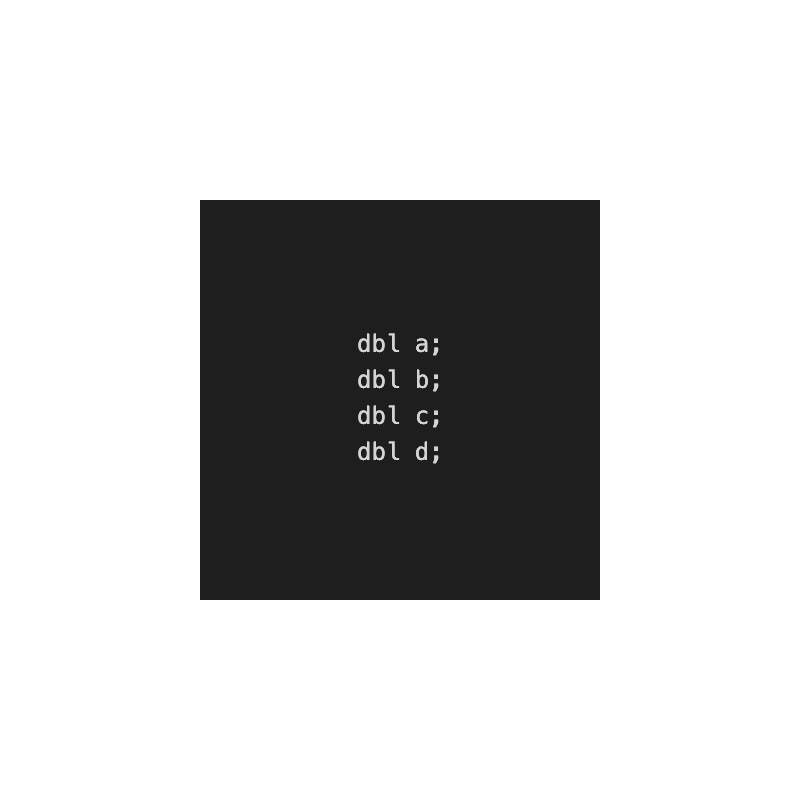
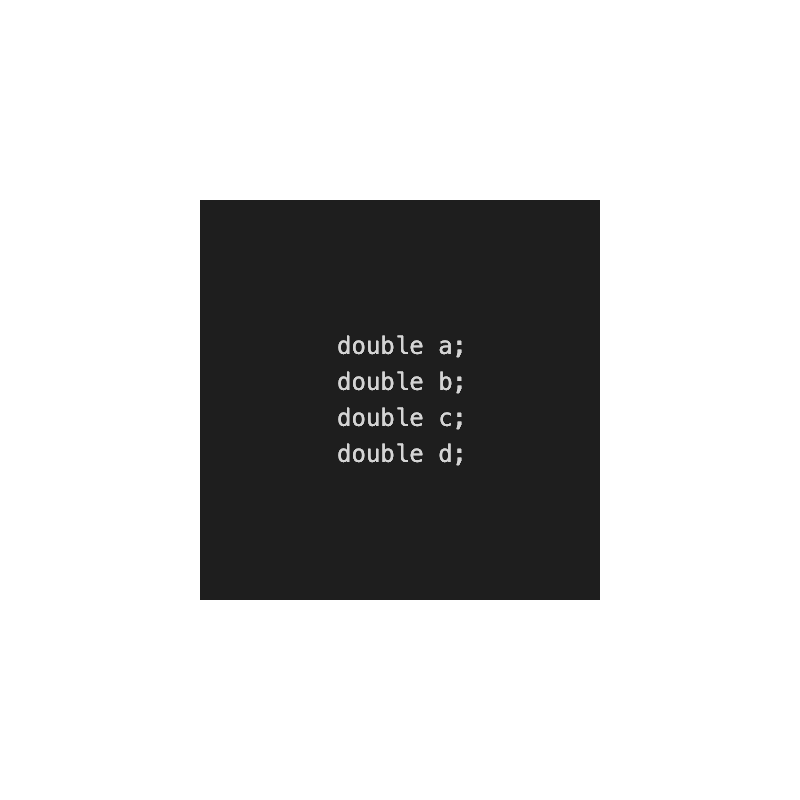
final touch-ups

Changed region(s): [[0.4062, 0.4062, 0.5938, 0.5938]]

diff --git a/secondPage.css b/secondPage.css
@@ -1,16 +1,16 @@
 body {
     background: rgb(2,0,36);
     background: radial-gradient(circle, rgba(2,0,36,1) 0%, rgba(255,255,255,1) 100%, rgba(0,212,255,1) 100%);
+    font-family: Helvetica, Arial, sans-serif;
     text-align: center;   
 }
 
 pre{
-    padding: 20px;
+    padding: 5px;
     margin-top: 5px;
-    background-color: orange;
-    text-align: justify;
-    color:black;
-    font-size: 20px;
+    background-color: rgba(212,212,212,0.2);
+    align-items: center;
+    color:#1e1e1e;
 }
 
 h1{
@@ -25,7 +25,7 @@ p {
     text-align: center;
     background-color: black;
     color:white;
-    padding: 10px;
+    padding: 5px;
     font-size: 20px;
 
 }
@@ -58,13 +58,12 @@ p {
 }
 
 button{
-    margin-top: 5px;
-    margin-bottom: 5px;    
+    margin-top: 0px;
+    margin-bottom: 15px;    
     background-color: green;
     padding-top: 5px;
     width: 100px; 
     cursor: pointer;
-
 }
 
 button:hover{

diff --git a/secondPage.html b/secondPage.html
@@ -3,7 +3,7 @@
     <link rel="stylesheet" href="secondPage.css">
 
 <head>
-<title> Second Page of Game</title>
+<title>Choose Level</title>
 <meta name="viewport" content="width=device-width, initial-scale=1">
 </head>
 <body>
@@ -16,22 +16,18 @@
       
 
 <h1>Welcome to the Main Screen. Pick your level choice down below.</h1>
-<br>
-<br>
-
-
 <div class="Main Content">
  
-<p> Each Prison has 4 Questions, with different level of difficuilty.
+<p>Each Prison has 4 Questions, with different level of difficuilty.
 <br>
 <br>
-The questions are in Java Code and cover the topics of Variables, Assingments, Branches & Conditions, Loops and Arrays. </p>
+The questions are in Java Code and cover the topics of Variables, Assingments, Branches & Conditions, Loops and Arrays.</p>
 
 
 </div>
 
 
-<h2> WHICH PRISON DO YOU WANT TO BEGIN WITH ? </h2>
+<h2>WHICH PRISON DO YOU WANT TO BEGIN WITH?</h2>
 
 
 

diff --git a/PrisonEscaped.css b/PrisonEscaped.css
@@ -2,7 +2,8 @@
 
 body {
     background: rgb(2,0,36);
-    background: radial-gradient(circle, rgba(2,0,36,1) 0%, rgba(255,255,255,1) 100%, rgba(0,212,255,1) 100%);    
+    background: radial-gradient(circle, rgba(2,0,36,1) 0%, rgba(255,255,255,1) 100%, rgba(0,212,255,1) 100%);
+    text-align: center;   
 }
 
 
@@ -25,9 +26,8 @@ button{
     padding-top: 5px;
     width: 150px; 
     cursor: pointer;
-    margin-left: 1170px;
-    margin-left: 700px;
     font-size: 20px;
+    align-items: center;
 }
 
 button:hover{
@@ -38,9 +38,8 @@ button:hover{
 }
 
 p{
-    margin-left: 570px;
    color:black;
    font-size: 25px;
-   margin-right: 500px;
+   text-align: center;
 
 }

diff --git a/questionTemplate.css b/questionTemplate.css
@@ -1,7 +1,8 @@
 
 body {
     background: rgb(2,0,36);
-    background: radial-gradient(circle, rgba(2,0,36,1) 0%, rgba(255,255,255,1) 100%, rgba(0,212,255,1) 100%);    
+    background: radial-gradient(circle, rgba(2,0,36,1) 0%, rgba(255,255,255,1) 100%, rgba(0,212,255,1) 100%);
+    text-align: center;  
 }
 
 
@@ -26,11 +27,10 @@ button{
     margin-top: 5px;
     margin-bottom: 5px;    
     background-color: green;
-    padding-top: 5px;
+    padding: 5px;
     width: 150px; 
     cursor: pointer;
-    margin-left: 680px;
-    margin-top: 20px;
+    align-items: center;
     font-size: 20px;
 }
 

diff --git a/Level3Question3.html b/Level3Question3.html
@@ -21,9 +21,9 @@
 
 <div class="Main Content">
  
-<p>Step 1: declare myNumber and assign it a value of 10.
-    Step 2: write a variable &#x27answer&#x27 that is the result of raising myNumber to the power of 3, adding 25 to it, then finding it&#x27s total remainder from 12.
-    Step 3: print &#x27answer&#x27.</p>
+<p>Step 1: declare myNumber and assign it a value of 10</p>
+<p>Step 2: write a variable 'answer' that is the result of raising myNumber to the power of 12, adding 25 to it, then finding it&#x27s total remainder from 12.</p>
+<p>Step 3: print 'answer'.</p>
 
 
 </div>

diff --git a/Level1Question3CORRECT.html b/Level1Question3CORRECT.html
@@ -23,9 +23,9 @@ Your browser does not support the audio element.
 
 <div class="Footer">
 <img src="Images/Correct Question.gif" alt="Next Level Unlocked" class="center">
-
-<a href="Level2Question1.html"><button>Level 2</button></a>
 <a href="secondPage.html"><button>Exit!</button></a>
+<a href="Level2Question1.html"><button>Level 2</button></a>
+
 
 </div>
 

diff --git a/Level2Question3CORRECT.html b/Level2Question3CORRECT.html
@@ -23,9 +23,9 @@ Your browser does not support the audio element.
 
 <div class="Footer">
 <img src="Images/Correct Question.gif" alt="Next Level Unlocked" class="center">
-
-<a href="Level3Question1.html"><button>Level 3</button></a>
 <a href="secondPage.html"><button>Exit!</button></a>
+<a href="Level3Question1.html"><button>Level 3</button></a>
+
 
 </div>
 

diff --git a/Level3Question3CORRECT.html b/Level3Question3CORRECT.html
@@ -26,7 +26,7 @@ Your browser does not support the audio element.
 <p>Congrats. You're now on the run but a full-flegded programmer now!
 <p>Click below to return to the Main Menu or quit from your browser by clicking the X above</p>
 
-<a href="frontpage.html"><button>Main menu</button></a> 
+<a href="index.html"><button>Main menu</button></a>
 
 </div>
 

diff --git a/Level1Question2CORRECT.html b/Level1Question2CORRECT.html
@@ -23,9 +23,9 @@
 
 <div class="Footer">
 <img src="Images/Correct Question.gif" alt="Next Question Unlocked" class="center">
-
-<a href="Level1Question3.html"><button>Question 3</button></a>
 <a href="secondPage.html"><button>Exit!</button></a>
+<a href="Level1Question3.html"><button>Question 3</button></a>
+
 
 </div>
 

diff --git a/Level2Question1CORRECT.html b/Level2Question1CORRECT.html
@@ -23,9 +23,9 @@
 
 <div class="Footer">
 <img src="Images/Correct Question.gif" alt="Next Question Unlocked" class="center">
-
-<a href="Level2Question2.html"><button>Question 2</button></a>
 <a href="secondPage.html"><button>Exit!</button></a>
+<a href="Level2Question2.html"><button>Question 2</button></a>
+
 
 </div>
 

diff --git a/Level2Question2CORRECT.html b/Level2Question2CORRECT.html
@@ -23,9 +23,9 @@
 
 <div class="Footer">
 <img src="Images/Correct Question.gif" alt="Next Question Unlocked" class="center">
-
-<a href="Level2Question3.html"><button>Question 3</button></a>
 <a href="secondPage.html"><button>Exit!</button></a>
+<a href="Level2Question3.html"><button>Question 3</button></a>
+
 
 </div>
 

diff --git a/Level3Question1CORRECT.html b/Level3Question1CORRECT.html
@@ -23,9 +23,9 @@
 
 <div class="Footer">
 <img src="Images/Correct Question.gif" alt="Next Question Unlocked" class="center">
-
-<a href="Level3Question2.html"><button>Question 2</button></a>
 <a href="secondPage.html"><button>Exit!</button></a>
+<a href="Level3Question2.html"><button>Question 2</button></a>
+
 
 </div>
 
